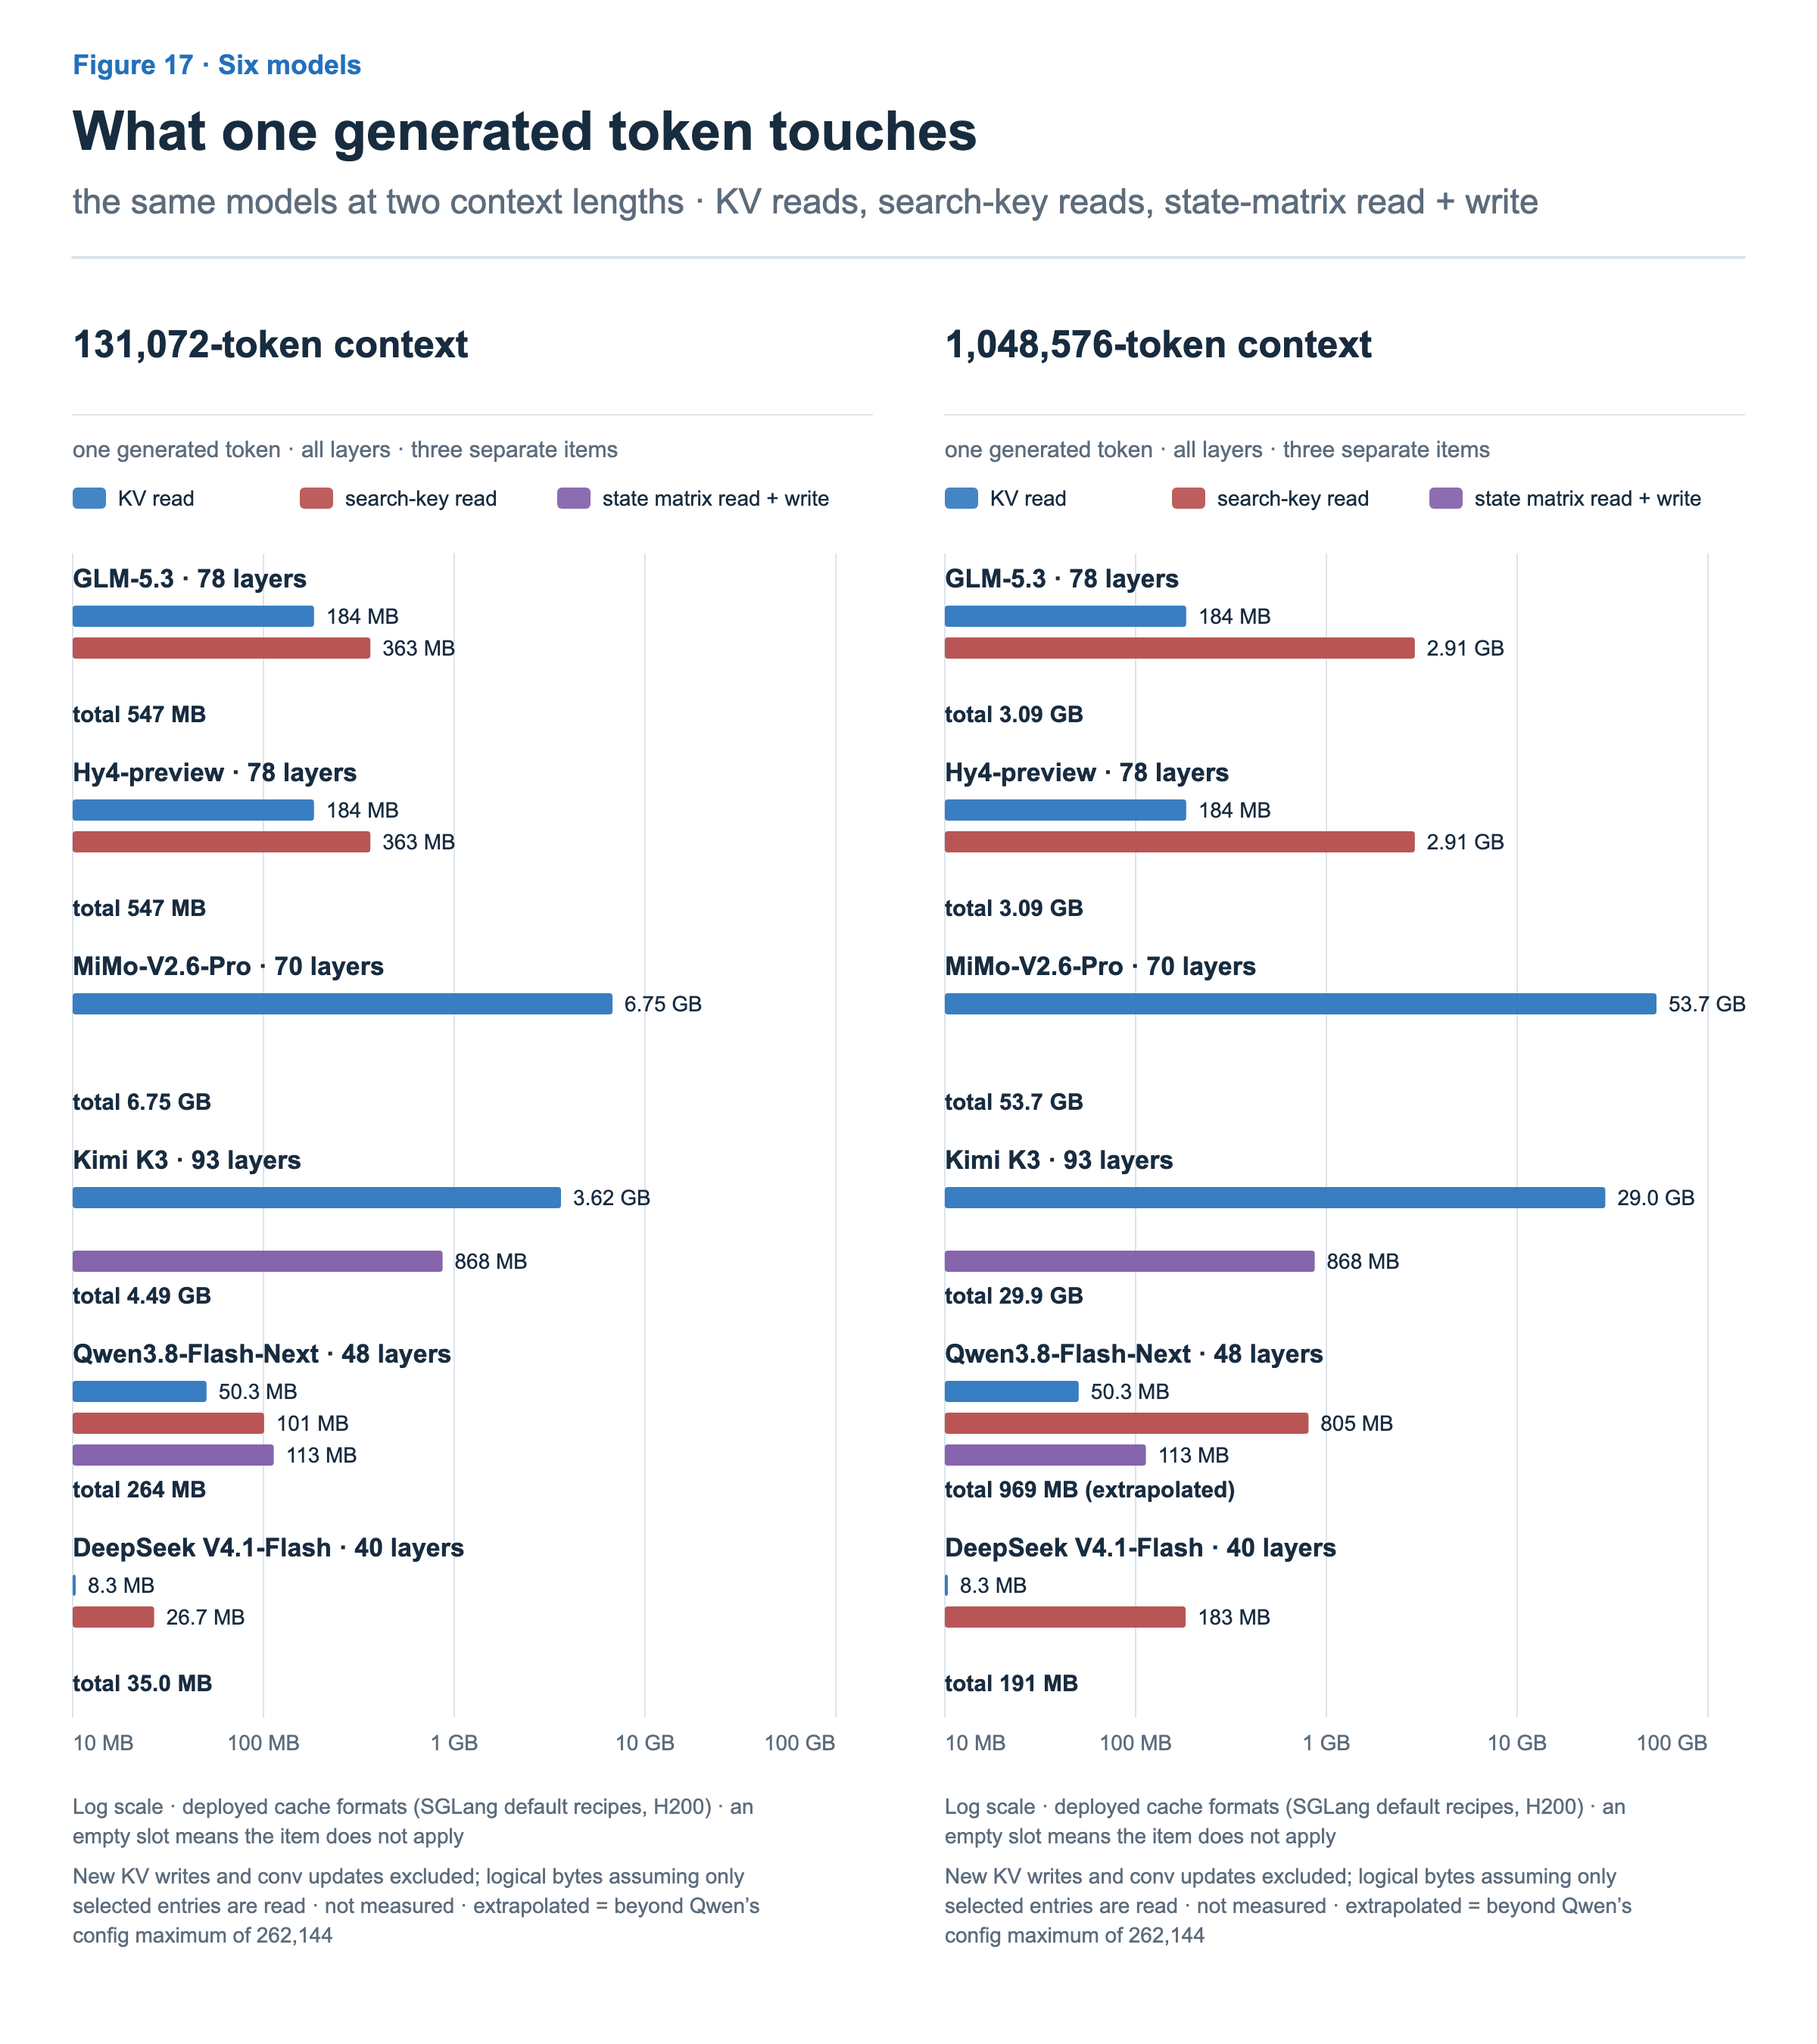
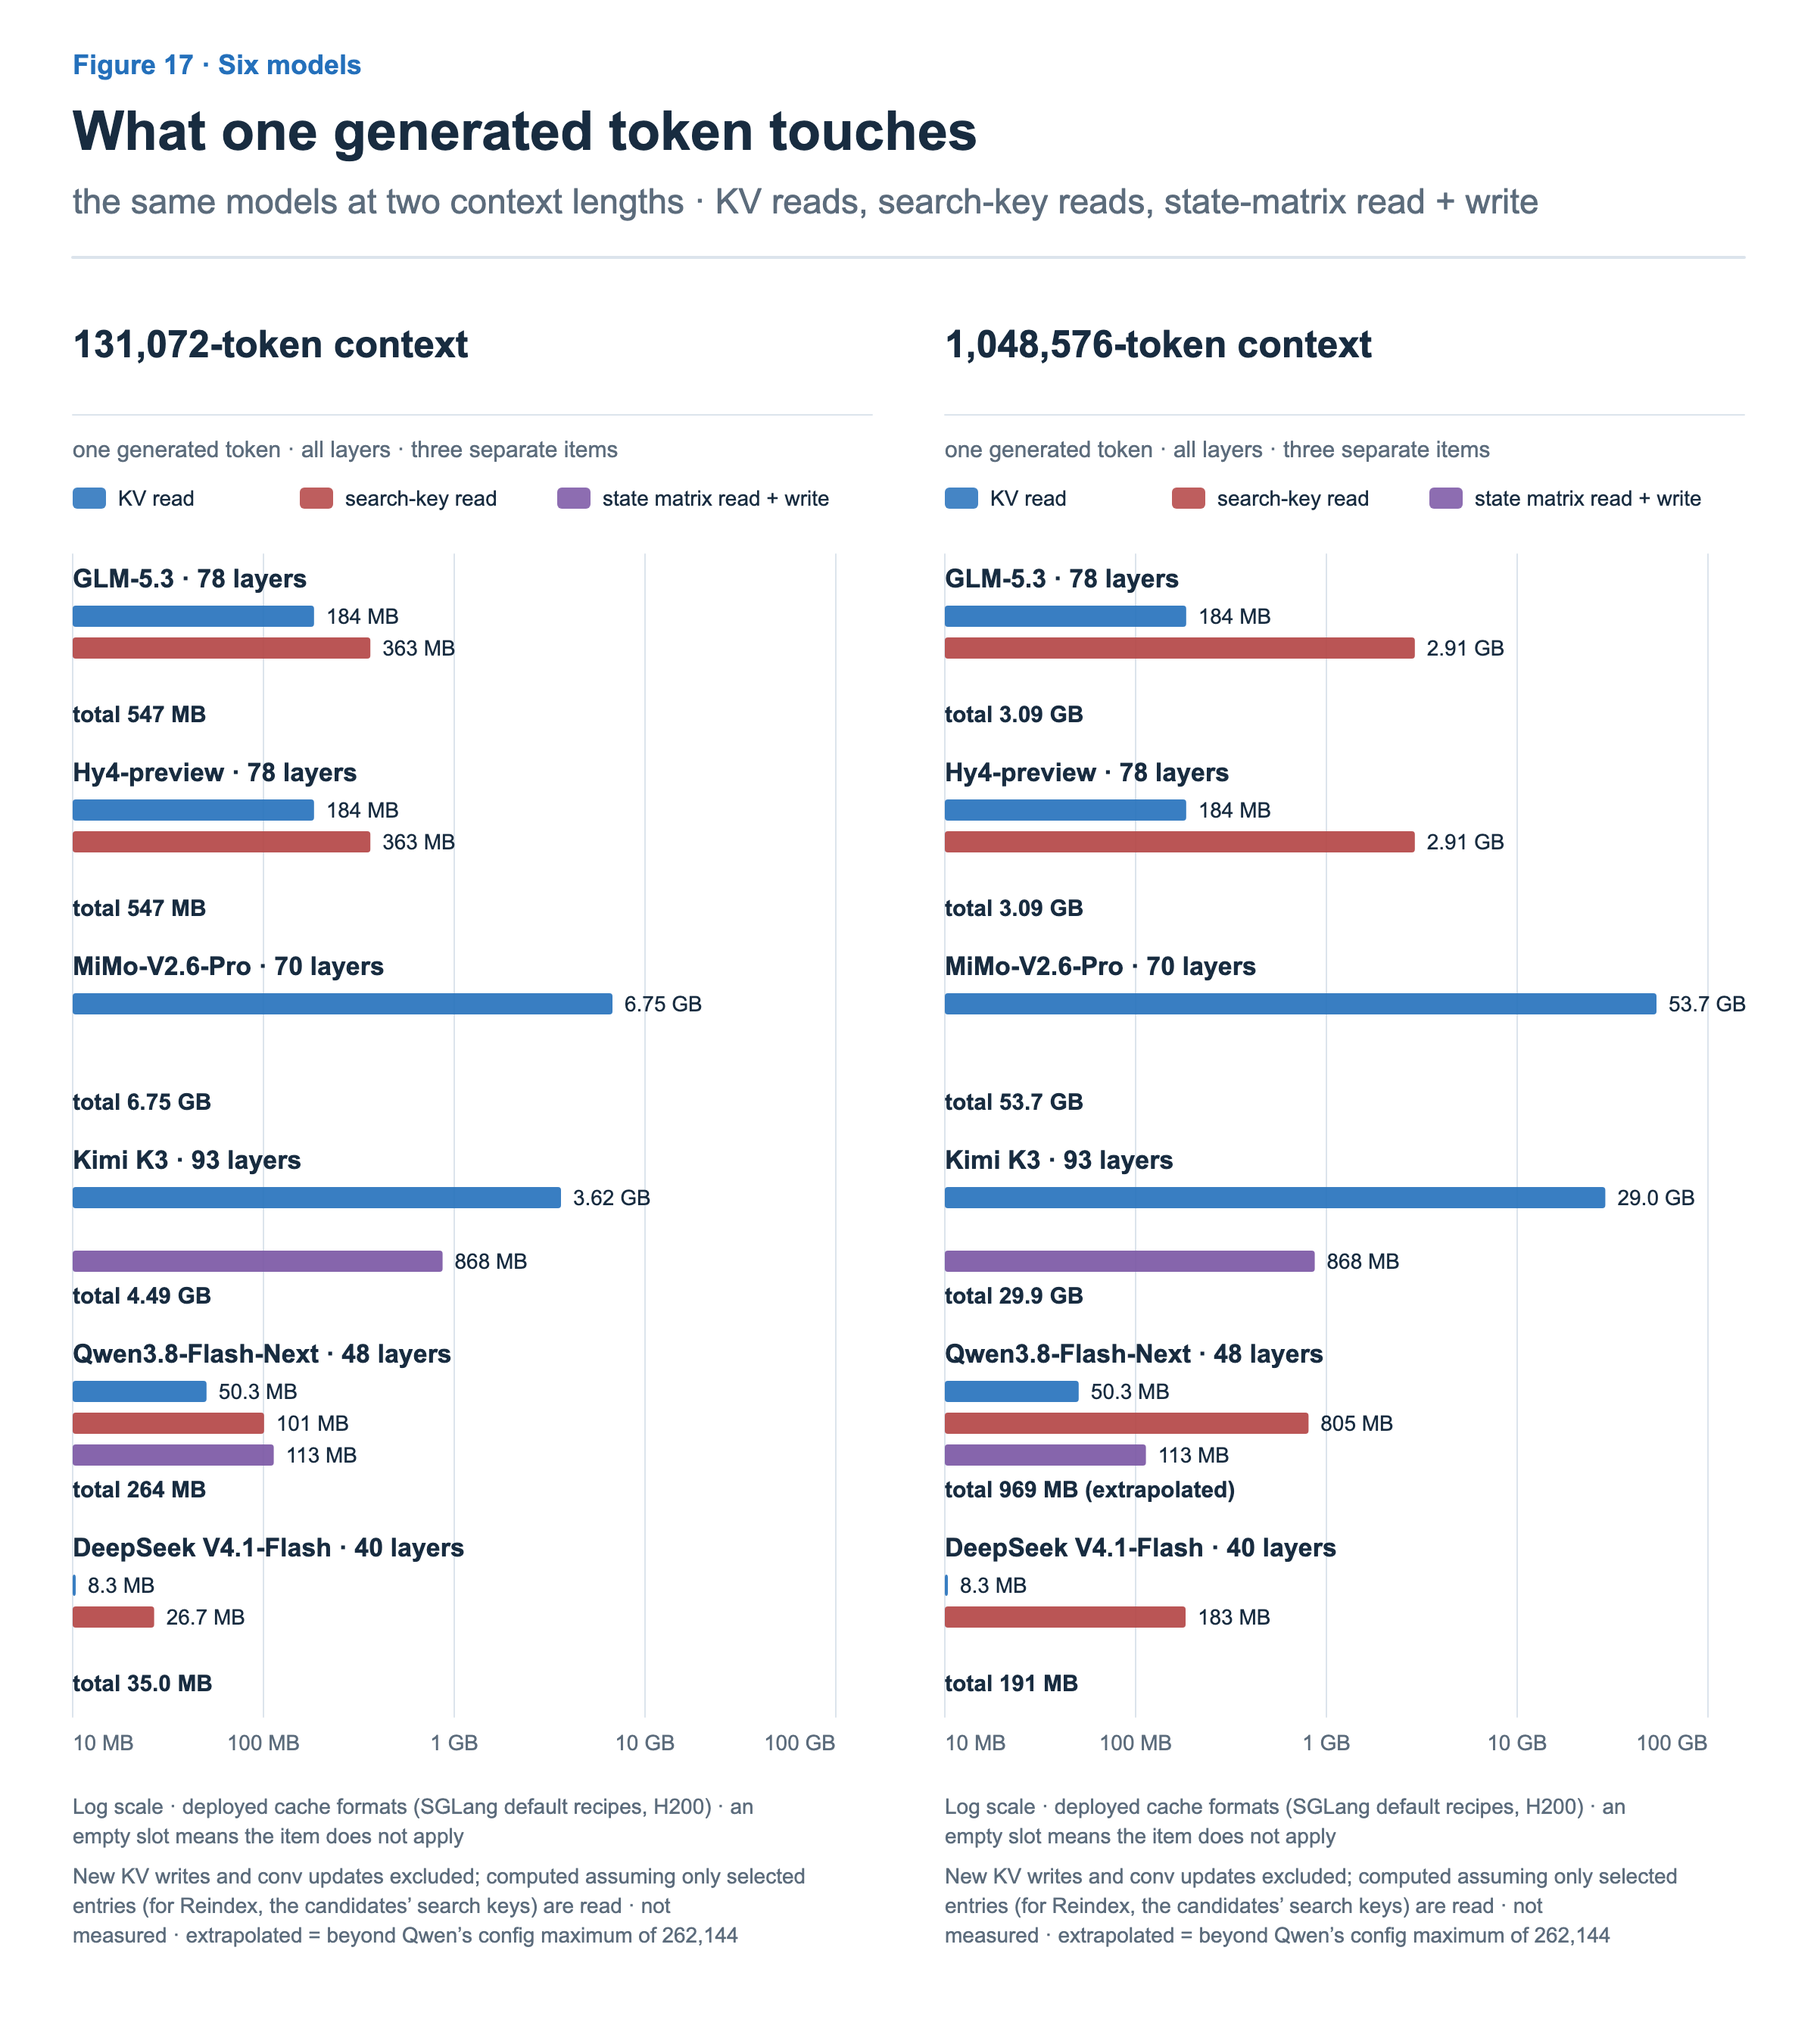
Apply reader review cycle 3 to the open models feature
Define scale, the fixed-state labels and the selection budget where they first
appear, explain Kimi's NoPE key and the one-read state access assumption, and
mark the Reindex search-key assumption in the access figure.

Changed region(s): [[0.0312, 0.9022, 0.4375, 0.9644], [0.5312, 0.9022, 0.9062, 0.9644]]

diff --git a/src/data/figures/open-models-kv-cache/drawing.ts b/src/data/figures/open-models-kv-cache/drawing.ts
@@ -57,7 +57,7 @@ function graph(l:Locale,kind:'store'|'access',o:Opt){
  const notes:Label[]=kind==='store'
   ?[L('로그 눈금: 한 칸에 10배 · 배포 캐시 형식(SGLang 기본 레시피, H200). 별도 줄은 문맥과 무관하게 요청마다 드는 상태.','Log scale, 10× per step · deployed cache formats (SGLang default recipes, H200). The extra line is per-request state independent of context.')]
   :[L('로그 눈금 · 배포 캐시 형식(SGLang 기본 레시피, H200) · 빈 자리는 해당 항목 없음','Log scale · deployed cache formats (SGLang default recipes, H200) · an empty slot means the item does not apply'),
-    L('새 KV 쓰기·conv 갱신 제외, 선택한 위치만 읽는 구현을 가정해 계산한 양 · 실측 아님 · 외삽 = Qwen config 최대 문맥 262,144 너머','New KV writes and conv updates excluded; logical bytes assuming only selected entries are read · not measured · extrapolated = beyond Qwen’s config maximum of 262,144')];
+    L('새 KV 쓰기·conv 갱신 제외, 선택한 위치(Reindex는 후보의 검색용 key)만 읽는 구현을 가정해 계산한 양 · 실측 아님 · 외삽 = Qwen config 최대 문맥 262,144 너머','New KV writes and conv updates excluded; computed assuming only selected entries (for Reindex, the candidates’ search keys) are read · not measured · extrapolated = beyond Qwen’s config maximum of 262,144')];
  for(const t of notes){p.text(0,y,t,{size:14,color:C.muted,width:W});y+=wrap(tr(l,t),W,14).length*20+6;}
  p.height=y;return p;
 }
